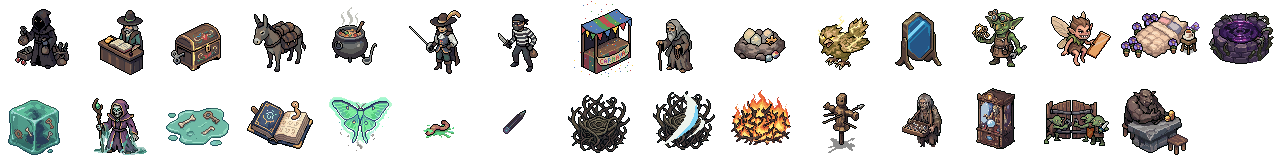
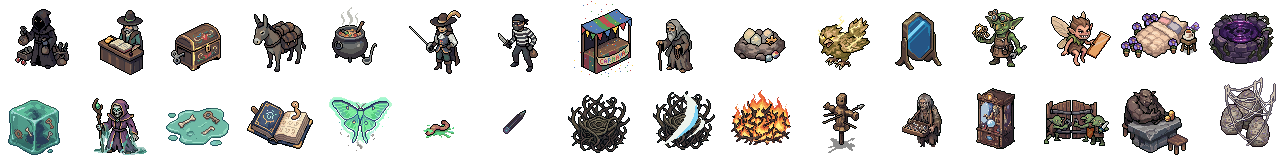
Give the Silk Cache its own event illustration.
The event was borrowing frame 16, the Slimy Prison's art, as a stand-in.
The sheet's last free slot now holds dedicated cocoon art, so point the
event at frame 31 and drop the placeholder note.

Changed region(s): [[0.9375, 0.5, 1.0, 0.9375]]

diff --git a/src/scenes/EventScene.js b/src/scenes/EventScene.js
@@ -59,8 +59,7 @@ const EVENT_ILLUSTRATION_FRAMES = {
   // TODO: swap to the Reliquary's own frame once its art lands. Frame 11
   // (the Copying Mirror's glassy panel) is the closest stand-in for now.
   reliquary: 11,
-  // Silk cave stand-in until dedicated cocoon art lands (same sheet as Slimy Prison).
-  silk_cocoon_cache: 16
+  silk_cocoon_cache: 31
 };
 
 export class EventScene extends Phaser.Scene {
